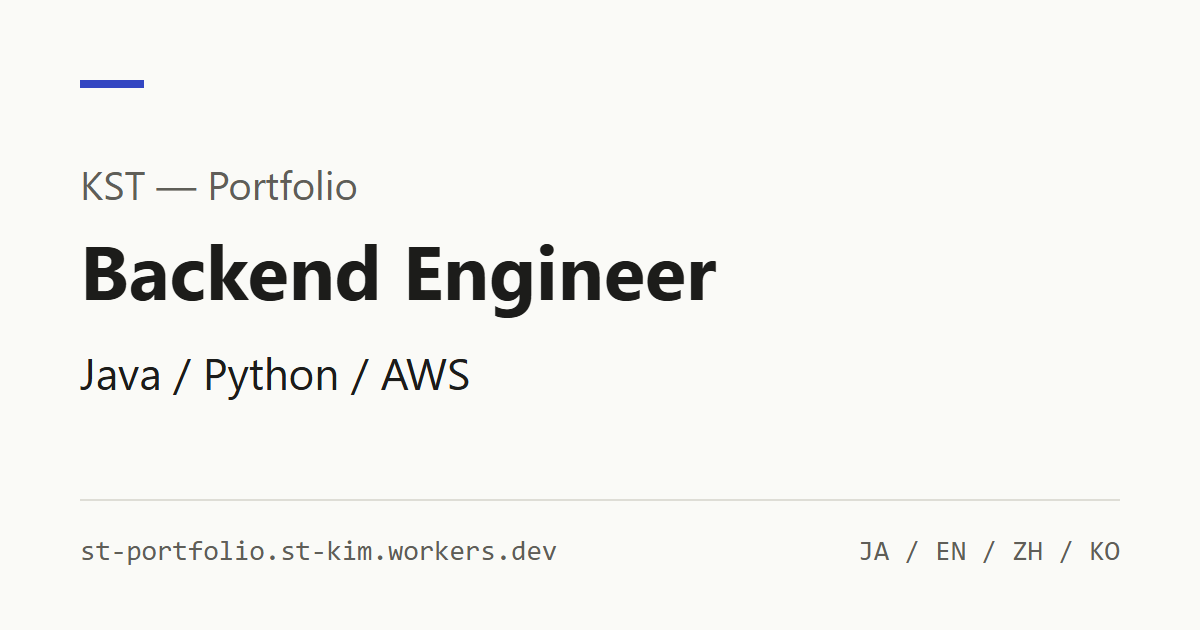
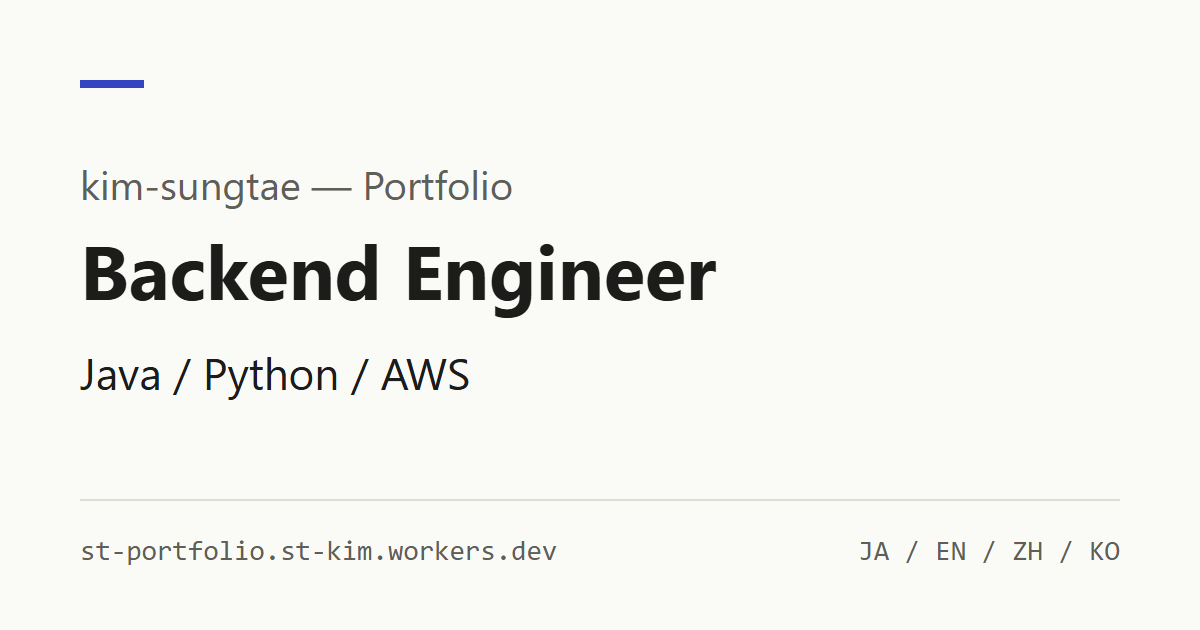
feat: 表示名を KST から kim-sungtae に、サイト名を「kim-sungtae ポートフォリオ」に変更 / 표시 이름을 KST에서 kim-sungtae로, 사이트 이름을 "kim-sungtae 포트폴리오"로 변경
- サイト名は「表示名 + ポートフォリオ (言語別)」。ロゴ・title・og:site_name に使う / 사이트 이름은 "표시 이름 + 포트폴리오 (언어별)". 로고·title·og:site_name에 쓴다
- 狭い画面のロゴは表示名だけにして、ボタンと1行に収める / 좁은 화면의 로고는 표시 이름만 두어 버튼과 한 줄에 들어가게 한다
- 氏名をローマ字表記で公開する方針に合わせ、profile.yaml のコメントを更新 / 이름을 로마자 표기로 공개하는 방침에 맞춰 profile.yaml 주석 갱신
- OGP 画像を再生成、ターミナルのプロンプトも名前に依存しない表記に / OGP 이미지 재생성, 터미널 프롬프트도 이름에 의존하지 않는 표기로

Changed region(s): [[0.0617, 0.2714, 0.4317, 0.3317]]

diff --git a/src/i18n/ja.ts b/src/i18n/ja.ts
@@ -79,7 +79,7 @@ export const ja = {
   'contact.email': 'メール',
   'contact.github': 'GitHub',
 
-  'og.imageAlt': 'KST のポートフォリオ — Backend Engineer（Java / Python / AWS）',
+  'og.imageAlt': 'kim-sungtae のポートフォリオ — Backend Engineer（Java / Python / AWS）',
 
   'contact.emailPending': '準備中',
 
@@ -105,6 +105,8 @@ export const ja = {
   'home.terminal.current': '直近',
   'home.card.latest': '直近の担当',
   'home.card.projects': '{n}件のプロジェクト',
+
+  'site.suffix': 'ポートフォリオ',
 
   'notFound.title': 'ページが見つかりません',
   'notFound.message': 'お探しのページは移動または削除された可能性があります。',

diff --git a/src/i18n/ko.ts b/src/i18n/ko.ts
@@ -80,7 +80,7 @@ export const ko: Translation = {
   'contact.email': '이메일',
   'contact.github': 'GitHub',
 
-  'og.imageAlt': 'KST 포트폴리오 — Backend Engineer (Java / Python / AWS)',
+  'og.imageAlt': 'kim-sungtae 포트폴리오 — Backend Engineer (Java / Python / AWS)',
 
   'contact.emailPending': '준비 중',
 
@@ -106,6 +106,8 @@ export const ko: Translation = {
   'home.terminal.current': '최근',
   'home.card.latest': '최근 담당',
   'home.card.projects': '프로젝트 {n}건',
+
+  'site.suffix': '포트폴리오',
 
   'notFound.title': '페이지를 찾을 수 없습니다',
   'notFound.message': '찾으시는 페이지가 이동되었거나 삭제되었을 수 있습니다.',

diff --git a/src/i18n/zh.ts b/src/i18n/zh.ts
@@ -80,7 +80,7 @@ export const zh: Translation = {
   'contact.email': '邮箱',
   'contact.github': 'GitHub',
 
-  'og.imageAlt': 'KST 的作品集 — Backend Engineer（Java / Python / AWS）',
+  'og.imageAlt': 'kim-sungtae 的作品集 — Backend Engineer（Java / Python / AWS）',
 
   'contact.emailPending': '准备中',
 
@@ -106,6 +106,8 @@ export const zh: Translation = {
   'home.terminal.current': '最近',
   'home.card.latest': '最近负责',
   'home.card.projects': '{n}个项目',
+
+  'site.suffix': '作品集',
 
   'notFound.title': '找不到页面',
   'notFound.message': '您要查找的页面可能已被移动或删除。',

diff --git a/src/i18n/en.ts b/src/i18n/en.ts
@@ -80,7 +80,7 @@ export const en: Translation = {
   'contact.email': 'Email',
   'contact.github': 'GitHub',
 
-  'og.imageAlt': 'KST portfolio — Backend Engineer (Java / Python / AWS)',
+  'og.imageAlt': 'kim-sungtae portfolio — Backend Engineer (Java / Python / AWS)',
 
   'contact.emailPending': 'Coming soon',
 
@@ -106,6 +106,8 @@ export const en: Translation = {
   'home.terminal.current': 'latest',
   'home.card.latest': 'Latest role',
   'home.card.projects': '{n} projects',
+
+  'site.suffix': 'Portfolio',
 
   'notFound.title': 'Page not found',
   'notFound.message': 'The page you are looking for may have been moved or deleted.',
